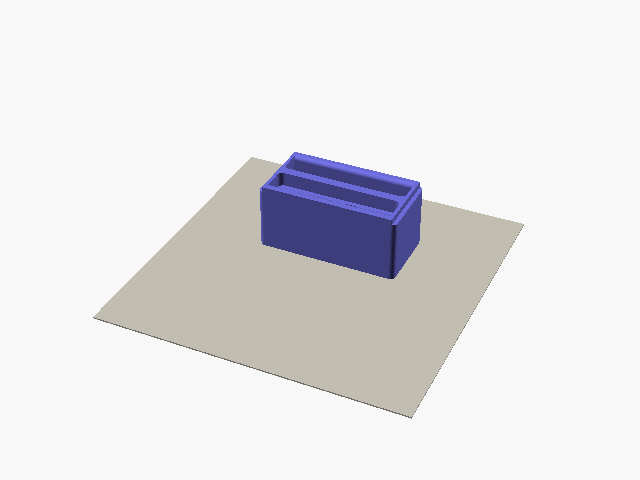
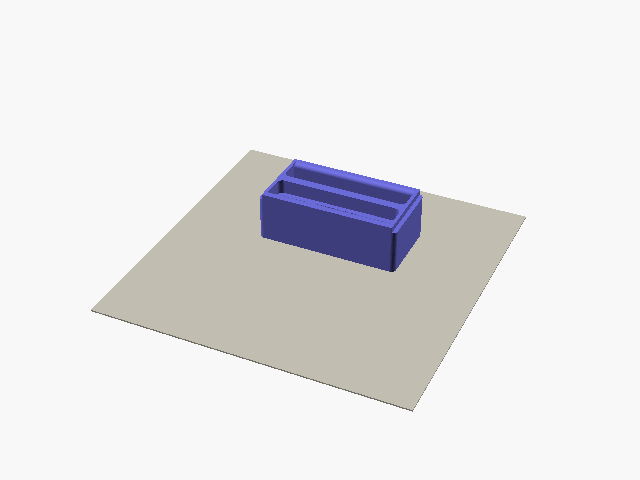
feat: make the housing shallower, with a 25 mm deepest edge

diff --git a/web/catalog.py b/web/catalog.py
@@ -29,7 +29,7 @@ def card(title, params, sub="", choice=False, choice_after=""):
 
 
 EDGE_SHAPE = [
-    num("slot_d", "Edge depth", 6, 35, 1, 20, help="From the lip to the back of the slot.", simple=True),
+    num("slot_d", "Edge depth", 6, 25, 1, 20, help="From the lip to the back of the slot.", simple=True),
     num("grip_r", "Lip radius", 0.5, 12, 0.5, 3, help="Roundover on the lip. Small is sharp, big is friendly. Slopers have no lip."),
     num("edge_angle", "Edge angle", -45, 20, 1, 0, unit="°",
         help="Positive: incut, the grip tilts in for traction (Tension uses 10°). Negative: sloper, one round curve (20° to 45°)."),
@@ -37,7 +37,7 @@ EDGE_SHAPE = [
 ]
 
 # Pockets share the edge shape, but their depth is a pocket depth.
-POCKET_SHAPE = [num("slot_d", "Pocket depth", 6, 35, 1, 20, help="From the lip to the back of the pocket.", simple=True)] + EDGE_SHAPE[1:]
+POCKET_SHAPE = [num("slot_d", "Pocket depth", 6, 25, 1, 20, help="From the lip to the back of the pocket.", simple=True)] + EDGE_SHAPE[1:]
 
 # Widest slot or pocket row: one skin (2.4 mm) of wall stays between its ends and the lip notches.
 # 2 * (pk_w/2 - clear - lip_in - skin) = 90
@@ -53,7 +53,7 @@ HOUSING = {
                "supports": "no supports", "settings": SOLID + " · plate 100%"}],
     "params": [
         num("keel_hole", "Hole size", 13, 20, 0.5, 16, help="Carabiner hole diameter in the keel, at its narrowest. It holds the carabiner right under the grip, so the edge should stay level. Not measured yet.", simple=True),
-        num("top_t", "Top wall", 6, 12, 0.5, 8, help="The insert presses up on it. Thicker is stiffer and heavier."),
+        num("top_t", "Top wall", 8, 12, 0.5, 10, help="The insert presses up on it. Thicker is stiffer and heavier."),
         num("floor_t", "Floor", 8, 12, 0.5, 8, help="Ties the anchor to the walls."),
         num("corner", "Corner radius", 3, 12, 0.5, 6, help="Rounding of the housing corners, seen from the front."),
     ],
@@ -74,9 +74,9 @@ def flip_grip(key, which, depth, radius):
             {"value": "edge", "label": "Edge"},
             {"value": "pocket", "label": "Pockets"},
         ], "edge", simple=True),
-        num(f"{key}_d", f"{which} depth", 6, 30, 1, depth, help="From the lip to the back of the slot or pocket.", simple=True),
+        num(f"{key}_d", f"{which} depth", 6, 25, 1, depth, help="From the lip to the back of the slot or pocket.", simple=True),
         num(f"{key}_r", f"{which} lip radius", 0.5, 3.5, 0.5, radius, help="Roundover on the lip. Small is sharp, big is friendly."),
-        num(f"{key}_ergo", f"{which} ergo curve", 0, 8, 0.5, 0, help="The lip curves this far back in the middle for the longer middle fingers."),
+        num(f"{key}_ergo", f"{which} ergo curve", 0, 5, 0.5, 0, help="The lip curves this far back in the middle for the longer middle fingers."),
         num(f"{key}_w", f"{which} edge width", 40, MAX_W, 1, 90),
         num(f"{key}_pn", f"{which} pockets", 1, 3, 1, 1, unit=""),
         num(f"{key}_pw", f"{which} pocket width", 18, FLIP_SPAN, 1, 58, help="Mono about 22, two fingers about 40, three fingers about 58."),
@@ -133,7 +133,7 @@ INSERTS = [
                    "supports": INSERT_SUPPORTS, "settings": SOLID}],
         "params": EDGE_SHAPE + [
             num("slot_w", "Edge width", 40, MAX_W, 1, 90),
-            num("ergo", "Ergo curve", 0, 8, 0.5, 0, help="The lip curves this far back in the middle for the longer middle fingers. The middle gets deeper, the ends shallower and rounder."),
+            num("ergo", "Ergo curve", 0, 5, 0.5, 0, help="The lip curves this far back in the middle for the longer middle fingers. The middle gets deeper, the ends shallower and rounder."),
         ],
         "cards": [card("Edge", ["slot_d", "grip_r", "edge_angle", "slot_h", "slot_w", "ergo"], choice=True)],
     },
@@ -192,10 +192,10 @@ PRESETS = [
     {"name": "20 mm edge", "insert": "edge", "values": {"slot_d": 20, "grip_r": 3}},
     {"name": "25 mm edge", "insert": "edge", "values": {"slot_d": 25, "grip_r": 4}},
     {"name": "20 mm ergo", "insert": "edge", "values": {"slot_d": 20, "grip_r": 4, "ergo": 5}},
-    {"name": "25 mm ergo", "insert": "edge", "values": {"slot_d": 25, "grip_r": 5, "ergo": 6}},
+    {"name": "25 mm ergo", "insert": "edge", "values": {"slot_d": 25, "grip_r": 5, "ergo": 5}},
     {"name": "15 mm incut 10°", "insert": "edge", "values": {"slot_d": 15, "grip_r": 2, "edge_angle": 10}},
     {"name": "20 mm incut 10°", "insert": "edge", "values": {"slot_d": 20, "grip_r": 3, "edge_angle": 10}},
-    {"name": "20° sloper", "insert": "edge", "values": {"slot_d": 30, "edge_angle": -20}},
+    {"name": "20° sloper", "insert": "edge", "values": {"slot_d": 25, "edge_angle": -20}},
     {"name": "35° sloper", "insert": "edge", "values": {"slot_d": 25, "edge_angle": -35}},
     {"name": "45° sloper", "insert": "edge", "values": {"slot_d": 20, "edge_angle": -45, "slot_h": 18}},
     {"name": "25 mm three-finger pocket", "insert": "pocket", "values": {"slot_d": 25, "pocket_n": 1, "pocket_w": 58}},

diff --git a/README.md b/README.md
@@ -20,8 +20,8 @@ This is a prototype, and I haven't load-tested it yet. Print and use it at your 
 
 ## What you can make
 
-- Edges from 6 to 35 mm deep: flat, ergo, incut up to 20°, or slopers down to 45°.
-- Two-sided inserts: any edge or pocket insert can get a second grip on its underside. Each grip is a flat or ergo edge or a row of pockets, 6 to 30 mm deep. Turn the insert over to switch.
+- Edges from 6 to 25 mm deep: flat, ergo, incut up to 20°, or slopers down to 45°.
+- Two-sided inserts: any edge or pocket insert can get a second grip on its underside. Each grip is a flat or ergo edge or a row of pockets, 6 to 25 mm deep. Turn the insert over to switch.
 - Pockets: mono, two-finger, three-finger, or up to three side by side.
 - Rollers: unlevel or straight.
 - An anchor plate under the front of the housing, with a hole for the carabiner.
